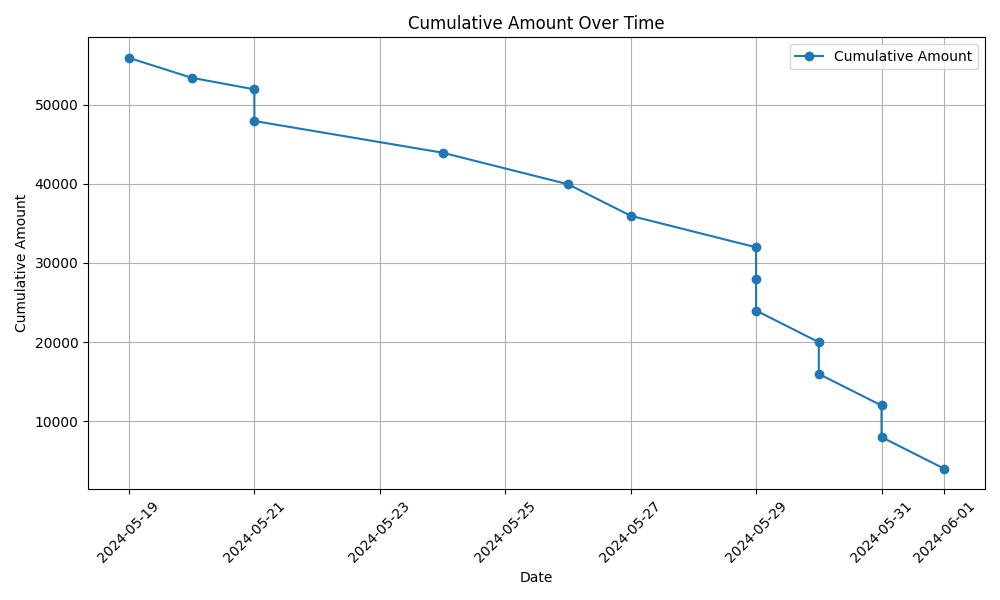
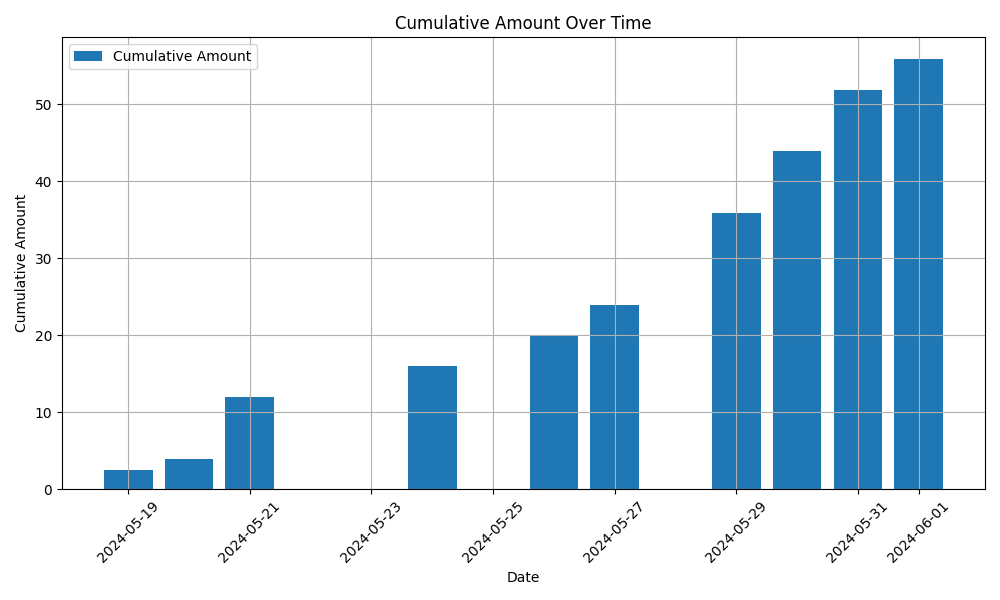
changement des graphe (frais & cumuler) et rajout de css

diff --git a/templates/analysis.html b/templates/analysis.html
@@ -3,23 +3,33 @@
 <head>
     <meta charset="UTF-8">
     <title>Analyze Data</title>
+    <link rel="stylesheet" href="{{ url_for('static', filename='css/style.css') }}">
 </head>
 <body>
-    <h1>Data Analysis</h1>
-    <form method="post" action="{{ url_for('analyze_file') }}">
-        <button type="submit">Generate Graphs and Calculate Statistics</button>
-    </form>
-    {% if cumulative_graph %}
-        <h2>Cumulative Amount Over Time</h2>
-        <img src="{{ cumulative_graph }}" alt="Cumulative Amount Graph">
-    {% endif %}
-    {% if daily_revenue_graph %}
-        <h2>Daily Revenue Over Time</h2>
-        <img src="{{ daily_revenue_graph }}" alt="Daily Revenue Graph">
-    {% endif %}
-    <h3>Statistics</h3>
-    <p>Average Revenue: {{ average_revenue }}</p>
-    <p>Median Revenue: {{ median_revenue }}</p>
-    <p>Transaction Count: {{ transaction_count }}</p>
+    <header>
+        <div class="container">
+            <div id="branding">
+                <h1>CSV Analysis Tool</h1>
+            </div>
+        </div>
+    </header>
+    <div class="container">
+        <h2>Data Analysis</h2>
+        <form method="post" action="{{ url_for('analyze_file') }}">
+            <button type="submit">Generate Graphs and Calculate Statistics</button>
+        </form>
+        {% if cumulative_graph %}
+            <h2>Cumulative Amount Over Time</h2>
+            <img src="{{ cumulative_graph }}" alt="Cumulative Amount Graph">
+        {% endif %}
+        {% if daily_revenue_graph %}
+            <h2>Daily Revenue Over Time</h2>
+            <img src="{{ daily_revenue_graph }}" alt="Daily Revenue Graph">
+        {% endif %}
+        <h3>Statistics</h3>
+        <p><strong>Average Revenue:</strong> {{ average_revenue }}</p>
+        <p><strong>Median Revenue:</strong> {{ median_revenue }}</p>
+        <p><strong>Transaction Count:</strong> {{ transaction_count }}</p>
+    </div>
 </body>
 </html>

diff --git a/static/css/style.css b/static/css/style.css
@@ -1,0 +1,84 @@
+body {
+    font-family: Arial, sans-serif;
+    background-color: #f0f0f0;
+    margin: 0;
+    padding: 0;
+}
+
+.container {
+    width: 80%;
+    margin: auto;
+    overflow: hidden;
+    padding: 20px;
+}
+
+header {
+    background: #50b3a2;
+    color: #fff;
+    padding-top: 30px;
+    min-height: 70px;
+    border-bottom: #e8491d 3px solid;
+}
+
+header a, header h1 {
+    color: #fff;
+    text-decoration: none;
+    text-transform: uppercase;
+    font-size: 16px;
+}
+
+header ul {
+    padding: 0;
+    list-style: none;
+}
+
+header li {
+    display: inline;
+    padding: 0 20px;
+}
+
+header #branding {
+    float: left;
+}
+
+header #branding h1 {
+    margin: 0;
+}
+
+header nav {
+    float: right;
+    margin-top: 10px;
+}
+
+form {
+    background: #fff;
+    padding: 20px;
+    margin: 20px 0;
+    box-shadow: 0 0 10px #ccc;
+}
+
+form input[type="file"] {
+    display: block;
+    margin: 10px 0;
+}
+
+form input[type="submit"] {
+    background: #50b3a2;
+    color: #fff;
+    border: 0;
+    padding: 10px;
+    cursor: pointer;
+}
+
+form input[type="submit"]:hover {
+    background: #45a089;
+}
+
+h2, h3 {
+    color: #333;
+}
+
+img {
+    max-width: 100%;
+    height: auto;
+}

diff --git a/templates/index.html b/templates/index.html
@@ -3,12 +3,22 @@
 <head>
     <meta charset="UTF-8">
     <title>Upload CSV</title>
+    <link rel="stylesheet" href="{{ url_for('static', filename='css/style.css') }}">
 </head>
 <body>
-    <h1>Upload your CSV file</h1>
-    <form method="post" enctype="multipart/form-data">
-        <input type="file" name="file">
-        <input type="submit" value="Upload">
-    </form>
+    <header>
+        <div class="container">
+            <div id="branding">
+                <h1>CSV Analysis Tool</h1>
+            </div>
+        </div>
+    </header>
+    <div class="container">
+        <h2>Upload your CSV file</h2>
+        <form method="post" enctype="multipart/form-data">
+            <input type="file" name="file">
+            <input type="submit" value="Upload">
+        </form>
+    </div>
 </body>
 </html>

diff --git a/graphe.py b/graphe.py
@@ -10,11 +10,12 @@ def generate_graphs(file_path):
     data['settledAt'] = pd.to_datetime(data['settledAt'])
 
     # Calculer la somme cumulative des montants
+    data = data.sort_values('settledAt')  # Assurez-vous que les données sont triées par date
     data['cumulative_amount'] = data['amount'].cumsum()
 
-    # Créer un graphique linéaire pour le montant cumulé
+    # Créer un graphique en barres pour le montant cumulé
     plt.figure(figsize=(10, 6))
-    plt.plot(data['settledAt'], data['cumulative_amount'], marker='o', linestyle='-', label='Cumulative Amount')
+    plt.bar(data['settledAt'], data['cumulative_amount'], label='Cumulative Amount')
     plt.xlabel('Date')
     plt.ylabel('Cumulative Amount')
     plt.title('Cumulative Amount Over Time')
@@ -27,17 +28,19 @@ def generate_graphs(file_path):
     output_graph_path = os.path.abspath('static/uploads/cumulative_amount_over_time.png')
     plt.savefig(output_graph_path)
     print(f"Le graphique a été sauvegardé dans {output_graph_path}")
+    plt.close()
 
-    # Calculer le revenu journalier
-    daily_revenue = data.groupby(data['settledAt'].dt.date)['amount'].sum().reset_index()
-    daily_revenue.columns = ['Date', 'Daily Revenue']
+    # Calculer le revenu journalier et les frais journaliers
+    daily_revenue = data.groupby(data['settledAt']).agg({'amount': 'sum', 'fees': 'sum'}).reset_index()
+    daily_revenue.columns = ['Date', 'Daily Revenue', 'Daily Fees']
 
-    # Créer un graphique pour le revenu journalier
+    # Créer un graphique pour le revenu journalier et les frais journaliers
     plt.figure(figsize=(10, 6))
     plt.plot(daily_revenue['Date'], daily_revenue['Daily Revenue'], marker='o', linestyle='-', label='Daily Revenue')
+    plt.plot(daily_revenue['Date'], daily_revenue['Daily Fees'], marker='o', linestyle='-', label='Daily Fees', color='orange')
     plt.xlabel('Date')
-    plt.ylabel('Daily Revenue')
-    plt.title('Daily Revenue Over Time')
+    plt.ylabel('Amount')
+    plt.title('Daily Revenue and Fees Over Time')
     plt.legend()
     plt.grid(True)
     plt.xticks(rotation=45)
@@ -47,6 +50,8 @@ def generate_graphs(file_path):
     output_graph_daily_path = os.path.abspath('static/uploads/daily_revenue_over_time.png')
     plt.savefig(output_graph_daily_path)
     print(f"Le graphique a été sauvegardé dans {output_graph_daily_path}")
+    plt.close()
 
+# Exemple d'appel de la fonction
 if __name__ == '__main__':
     generate_graphs('settlement_transformed.csv')

diff --git a/app.py b/app.py
@@ -78,8 +78,9 @@ def analyze_file():
 
         # Convertir 'amount' et 'fees' en numérique et conserver uniquement les 4 premières unités
         data_initial['amount'] = pd.to_numeric(data_initial['amount'], errors='coerce').astype(str).str[:4].astype(
-            float)
-        data_initial['fees'] = pd.to_numeric(data_initial['fees'], errors='coerce').astype(str).str[:4].astype(float)
+            float) / 1000
+        data_initial['fees'] = pd.to_numeric(data_initial['fees'], errors='coerce').astype(str).str[:4].astype(
+            float) / 1000
 
         # Sélectionner les colonnes pertinentes
         data_transformed = data_initial[['settledAt', 'amount', 'fees']]
